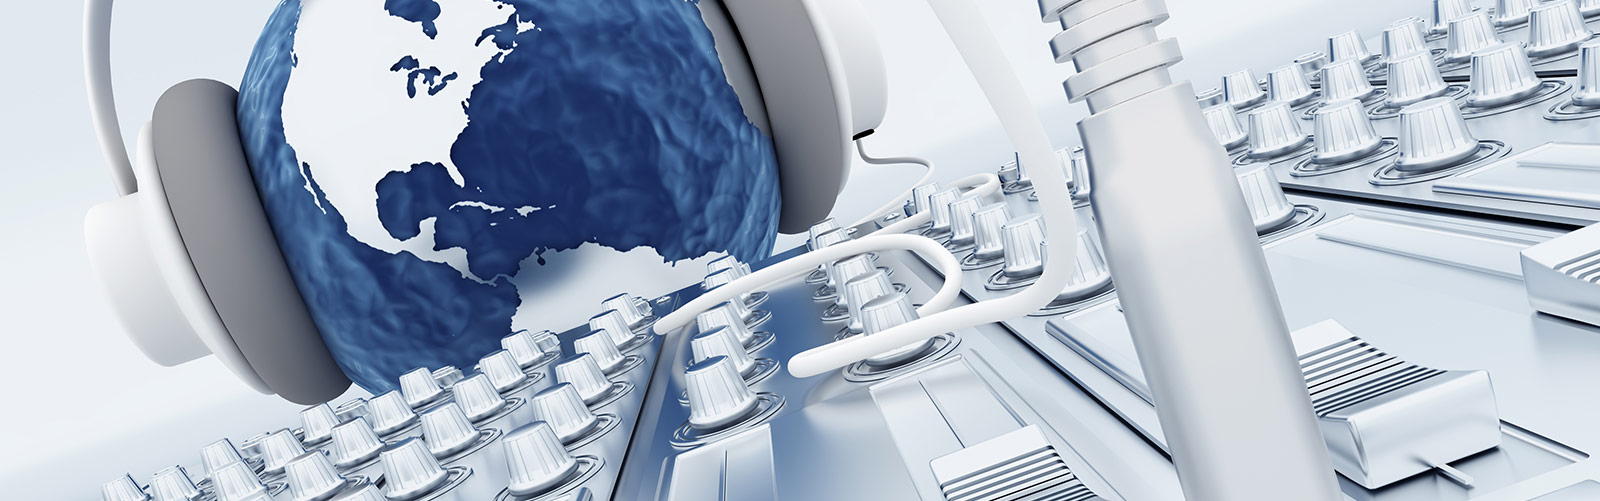
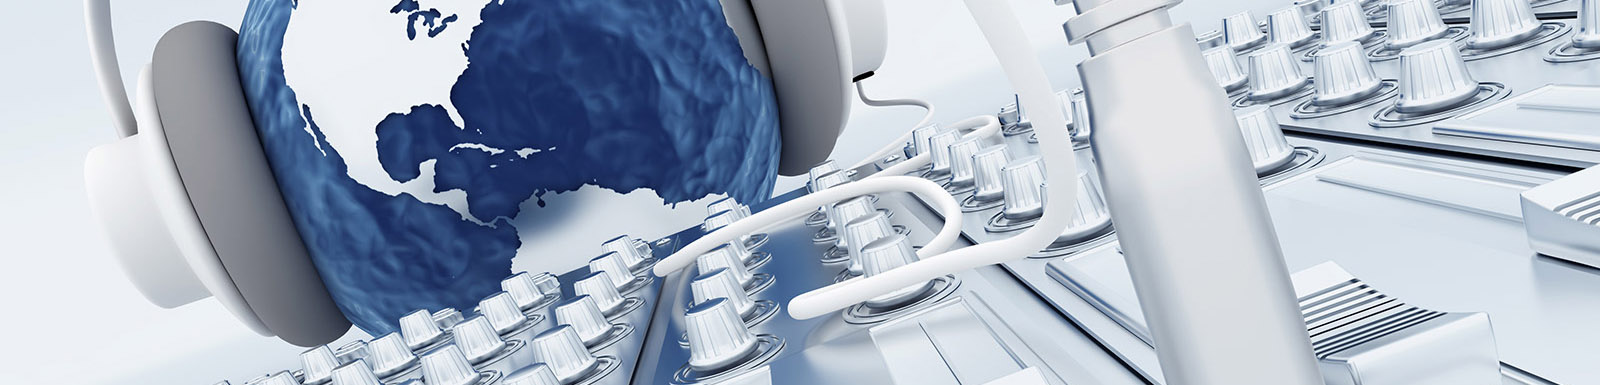
допили старт морды и занизил высоты

diff --git a/index.html b/index.html
@@ -12,7 +12,7 @@
 	<meta name="description" content="" />
 	<meta http-equiv="X-UA-Compatible" content="IE=edge" />
 	<meta name="viewport" content="width=device-width, initial-scale=1.0" />
-	<link rel="shortcut icon" href="favicon.png" />
+	<link rel="icon" type="image/png" href="img/favicon.png" />
 	<link rel="stylesheet" href="libs/bootstrap/bootstrap.css"/>
 	<link rel="stylesheet" href="libs/font-awesome-4.2.0/css/font-awesome.min.css"/>
 	<link rel="stylesheet" href="libs/countdown/jquery.countdown.css" />
@@ -20,7 +20,7 @@
 	<link rel="stylesheet" href="css/main.css" />
 	<link rel="stylesheet" href="css/media.css" />
 	<link rel="stylesheet" href="libs/fancybox/jquery.fancybox.css" />
-	<link rel="icon" type="image/png" href="img/favicon.png" />
+
 
 </head>
 
@@ -114,22 +114,22 @@ jQuery(function(f){
 							<a href="#">Дикторы</a>
 							<ul class="cbp-hssubmenu">
 								<li>
-									<a href="#"><img src="images/7.png" alt="img07" /><span>Русские дикторы</span></a>
+									<a href="#"><img src="img/ruman.png" alt="img07" /><span>Русские дикторы</span></a>
 								</li>
 								<li>
-									<a href="#"><img src="images/8.png" alt="img08" /><span>Украинские дикторы</span></a>
+									<a href="#"><img src="img/uaman.png" alt="img08" /><span>Украинские дикторы</span></a>
 								</li>
 								<li>
-									<a href="#"><img src="images/9.png" alt="img09" /><span>Иностранные дикторы</span></a>
+									<a href="#"><img src="img/foreigner.png" alt="img09" /><span>Иностранные дикторы</span></a>
 								</li>
 								<li>
-									<a href="#"><img src="images/10.png" alt="img10" /><span>Вокалисты</span></a>
+									<a href="#"><img src="img/songer.png" alt="img10" /><span>Вокалисты</span></a>
 								</li>
 								<li>
-									<a href="#"><img src="images/1.png" alt="img01" /><span>Пародисты</span></a>
+									<a href="#"><img src="img/parodies.png" alt="img01" /><span>Пародисты</span></a>
 								</li>
 								<li>
-									<a href="#"><img src="images/2.png" alt="img02" /><span>Детские голоса</span></a>
+									<a href="#"><img src="img/child.png" alt="img02" /><span>Детские голоса</span></a>
 								</li>
 							</ul>
 						</li>
@@ -137,16 +137,16 @@ jQuery(function(f){
 							<a href="#">Услуги</a>
 							<ul class="cbp-hssubmenu">
 								<li>
-									<a href="#"><img src="img/radio_g.png" alt="img06" /><span>Аудиролики</span></a>
+									<a href="#"><img src="img/radio_c.png" alt="img06" /><span>Аудиролики</span></a>
 								</li>
 								<li>
-									<a href="#"><img src="img/tv_g.png" alt="img06" /><span>Озвучивание видеороликов</span></a>
+									<a href="#"><img src="img/tv_c.png" alt="img06" /><span>Озвучивание видеороликов</span></a>
 								</li>
 								<li>
-									<a href="#"><img src="img/film_g.png" alt="img09" /><span>Создание видеороликов</span></a>
+									<a href="#"><img src="img/film_c.png" alt="img09" /><span>Создание видеороликов</span></a>
 								</li>
 								<li>
-									<a href="#"><img src="img/gramafon_g.png" alt="img09" /><span>Музыкальные подложки</span></a>
+									<a href="#"><img src="img/vinil.png" alt="img09" /><span>Музыкальные подложки</span></a>
 								</li>
 							</ul>
 						</li>
@@ -176,7 +176,7 @@ jQuery(function(f){
 	<div class="item active">
 		<img src="img/img1.jpg" alt="">
 		<div class="carousel-caption">
-					<h1>АУДИОРОЛИКИ </h1>
+					<h1>АУДИОРОЛИКИ</h1>
 					<div class="center_btn">
 						<button type="button" class="zakaz_btn">СДЕЛАТЬ ЗАКАЗ</button>
 					</div>
@@ -194,6 +194,7 @@ jQuery(function(f){
 	<div class="item">
 				<img src="img/img3.jpg" alt="">
 		<div class="carousel-caption">
+
 					<div class="center_btn">
 						<button type="button" class="zakaz_btn">СДЕЛАТЬ ЗАКАЗ</button>
 					</div>
@@ -277,7 +278,7 @@ jQuery(function(f){
 					<div class="moveone">
 						<div class="box_yellow">
 							<a href="#" class="h1block">ОЗВУЧАНИЕ<br> ВИДЕОРОЛИКОВ
-							<h2 class="h2block">cинхрон, липсинг, дубляж, закадровый голос, субтитры</h2></a>
+							<h2 class="h2block">cинхрон, липсинг, <br> закадровый голос, субтитры</h2></a>
 						</div>
 						<div class="rect_r"></div>
 						<div class="rect_yel_r"></div>
@@ -384,6 +385,7 @@ jQuery(function(f){
 					<br> По субботам: 10:00 - 15:00
 					<br> Выходные: воскресенье.
 					<h4>ПОЧТОВЫЙ АДРЕС:</h4><hr>
+					<p>г. Москва, пер. Электрический д.12 помещение ІІ, комн. 6</p>
 				</div>
 				<div class="col-md-3"><h4>КОНТАКТЫ:</h4>
 				<hr>

diff --git a/css/main.css b/css/main.css
@@ -82,6 +82,9 @@ body textarea:required:valid {
 	display: inline-block;
 	margin-left: 4em;
 }
+.cbp-hsmenu > li a {
+text-decoration: none;
+}
 .cbp-hsmenu > li:first-child {
 	margin-left: 0;
 }
@@ -325,7 +328,7 @@ body textarea:required:valid {
 
 .carousel-inner > .item > img,
 .carousel-inner > .item > a > img {
-min-height: 200px;    /* Set slide height here */
+min-height: 150px;    /* Set slide height here */
 width: 100% !important;
 }
 
